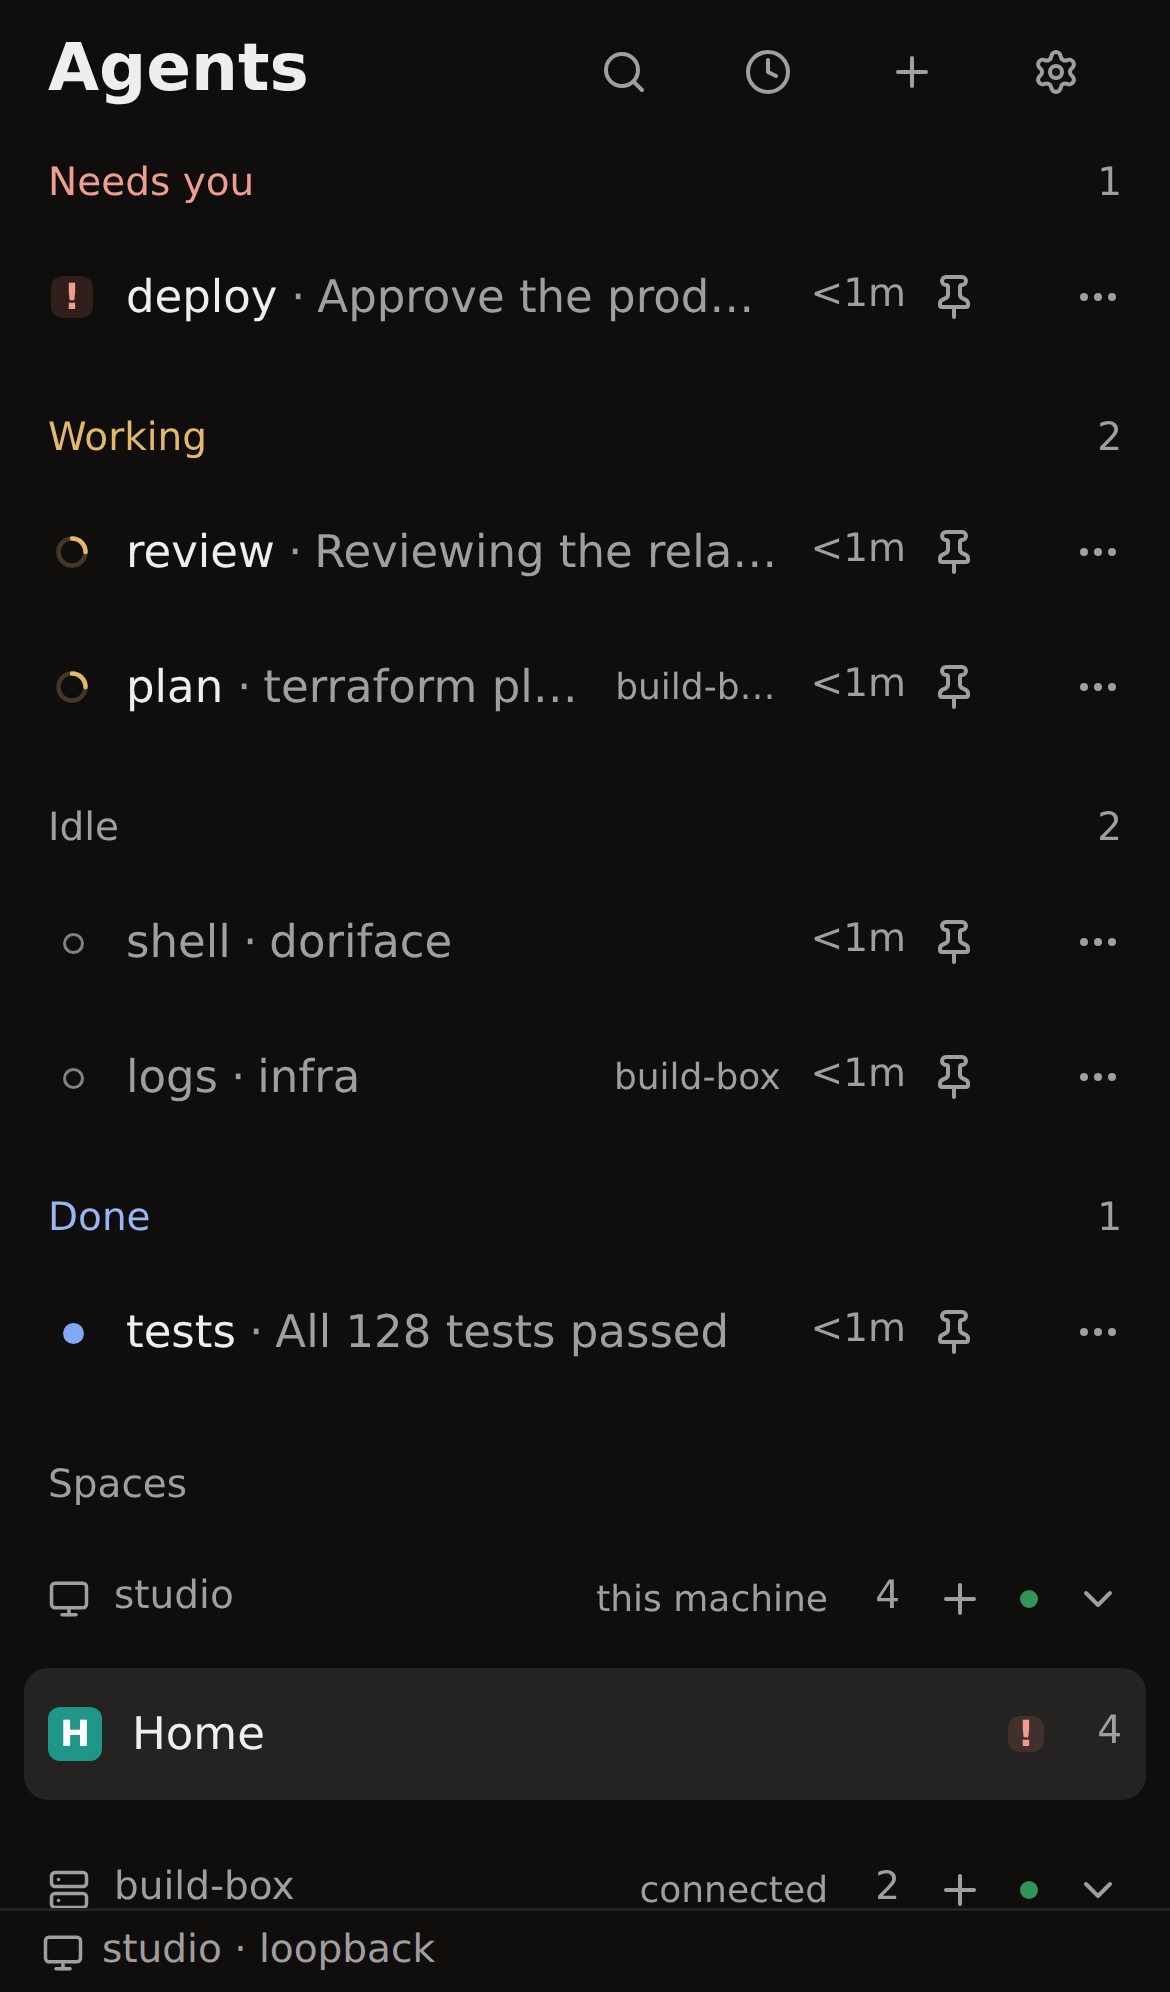
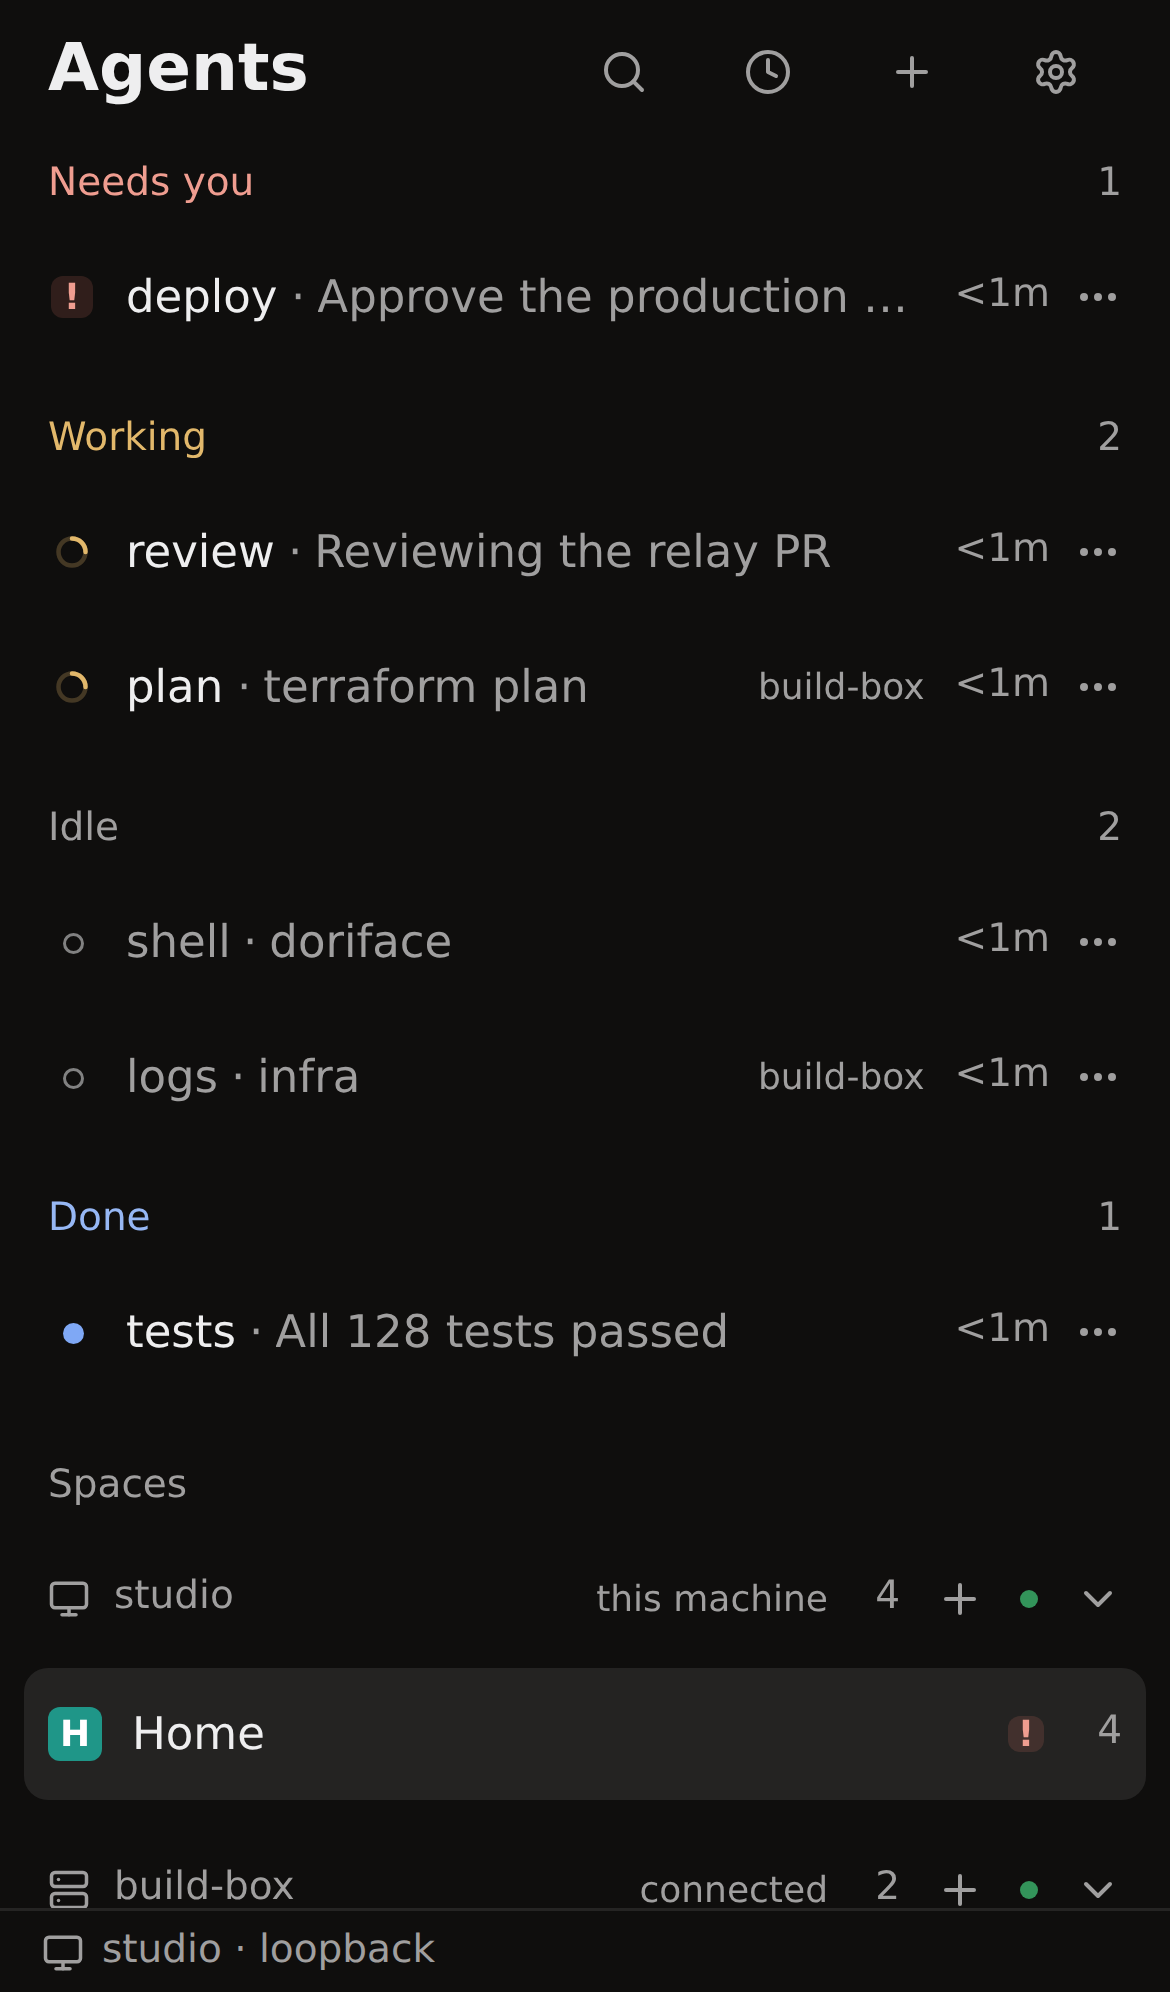
fix(ui): on touch an agent row draws More alone, with Pin as its first item, and keeps its meta (Part of #950)

diff --git a/apps/web/e2e/phone-row-actions.e2e.ts b/apps/web/e2e/phone-row-actions.e2e.ts
@@ -19,70 +19,63 @@ const drawnEdge = (row: Locator) =>
     return rights.length === 0 ? Number.NEGATIVE_INFINITY : Math.max(...rights);
   });
 
-test("an agent row's Pin and More are on the phone, and each takes a tap just inside 10 px of its drawn box", async ({
+test("on the phone an agent row draws More alone, which takes a tap just inside 10 px of its box and holds Pin", async ({
   page,
 }) => {
+  // #950 (after #798/#808): a touch screen draws More only; Pin is its menu's first item, and the row keeps its meta.
   const address = startAgent("host", "tapme", "idle");
   // The two shapes that used to be drawn under the actions: a detail far longer than the row, and a "Blocked" chip,
-  // which is not meta at all, so hiding the meta never moved it out from under the Pin.
+  // which is not meta at all, so hiding the meta never moved it out from under the action.
   const long = startAgent("host", "longrow", "idle", "a-long-space-name-for-the-detail");
   const blocked = startAgent("host", "blockrow", "blocked");
   try {
     await page.goto("/");
     const row = page.getByRole("button", { name: /tapme/ }).first();
-    const pin = page.getByRole("button", { name: "Pin tapme" });
     const more = page.getByRole("button", { name: "More for tapme" });
     await expect(row).toBeVisible({ timeout: 20_000 });
-    await expect(pin).toBeVisible();
+    await expect(more).toBeVisible();
+    await expect(page.getByRole("button", { name: "Pin tapme" })).toBeHidden();
 
-    const boxes = await Promise.all([pin.boundingBox(), more.boundingBox()]);
-    const [left, right] = boxes;
-    if (left === null || right === null) throw new Error("no box");
-    for (const box of boxes) {
-      expect(box?.width, "the drawn button stays 24 px").toBe(24);
-      expect(box?.height, "the drawn button stays 24 px").toBe(24);
-    }
-    expect(right.x - (left.x + left.width), "the two hit areas neither overlap nor meet").toBeGreaterThanOrEqual(24);
+    const box = await more.boundingBox();
+    if (box === null) throw new Error("no box");
+    expect(box.width, "the drawn button stays 24 px").toBe(24);
+    expect(box.height, "the drawn button stays 24 px").toBe(24);
 
     // Just inside the 10 px edge, so sub-pixel rounding of the hit area cannot decide the result.
     const OUT = 9.5;
-    const labels = [await pin.getAttribute("aria-label"), await more.getAttribute("aria-label")];
-    const points = [left, right].flatMap((box, index) => {
-      const midX = box.x + box.width / 2;
-      const midY = box.y + box.height / 2;
-      const label = labels[index] ?? null;
-      return [
-        { side: "left", x: box.x - OUT, y: midY, label },
-        { side: "right", x: box.x + box.width + OUT, y: midY, label },
-        { side: "top", x: midX, y: box.y - OUT, label },
-        { side: "bottom", x: midX, y: box.y + box.height + OUT, label },
-        { side: "top-left", x: box.x - OUT, y: box.y - OUT, label },
-        { side: "top-right", x: box.x + box.width + OUT, y: box.y - OUT, label },
-        { side: "bottom-left", x: box.x - OUT, y: box.y + box.height + OUT, label },
-        { side: "bottom-right", x: box.x + box.width + OUT, y: box.y + box.height + OUT, label },
-      ];
-    });
+    const label = await more.getAttribute("aria-label");
+    const midX = box.x + box.width / 2;
+    const midY = box.y + box.height / 2;
+    const points = [
+      { side: "left", x: box.x - OUT, y: midY },
+      { side: "right", x: box.x + box.width + OUT, y: midY },
+      { side: "top", x: midX, y: box.y - OUT },
+      { side: "bottom", x: midX, y: box.y + box.height + OUT },
+      { side: "top-left", x: box.x - OUT, y: box.y - OUT },
+      { side: "top-right", x: box.x + box.width + OUT, y: box.y - OUT },
+      { side: "bottom-left", x: box.x - OUT, y: box.y + box.height + OUT },
+      { side: "bottom-right", x: box.x + box.width + OUT, y: box.y + box.height + OUT },
+    ];
     const hits = await reached(page, points);
-    points.forEach(({ side, label }, index) =>
+    points.forEach(({ side }, index) =>
       expect.soft(hits[index], `a tap 10 px ${side} of "${label}" reaches it`).toBe(label),
     );
 
-    // The two shapes that used to be drawn under the actions: a detail far longer than the row, and the "Needs you" chip
-    // of a blocked agent, which is not meta at all, so hiding the meta never moved it out from under the Pin. The chip
-    // only draws outside the compact blocked group, so the blocked agent is pinned first: Pinned keeps it.
-    await page.getByRole("button", { name: "Pin blockrow" }).tap();
+    // The blocked agent is pinned first from its own More, so Pinned keeps it and its "Needs you" chip draws.
+    await page.getByRole("button", { name: "More for blockrow" }).tap();
+    await page.getByRole("menuitem", { name: "Pin to top" }).tap();
     await expect(page.getByRole("button", { name: /blockrow/ }).first()).toContainText("Needs you");
     const shapes = ["longrow", "blockrow"] as const;
     await Promise.all(
       shapes.map(async (name) => {
         const other = page.getByRole("button", { name: new RegExp(`\\b${name}\\b`) }).first();
         await expect(other).toBeVisible();
-        const [edge, pinBox] = await Promise.all([
+        const [edge, moreBox] = await Promise.all([
           drawnEdge(other),
-          page.getByRole("button", { name: `Pin ${name}` }).boundingBox(),
+          page.getByRole("button", { name: `More for ${name}` }).boundingBox(),
         ]);
-        if (pinBox === null) throw new Error(`no box for ${name}`);
-        expect(edge, `${name}: nothing the row draws runs under its actions`).toBeLessThanOrEqual(pinBox.x);
+        if (moreBox === null) throw new Error(`no box for ${name}`);
+        expect(edge, `${name}: nothing the row draws runs under its More`).toBeLessThanOrEqual(moreBox.x);
         await expect(other.locator("[data-row-meta]").first()).toHaveCSS("visibility", "visible");
       }),
     );
@@ -91,8 +84,14 @@ test("an agent row's Pin and More are on the phone, and each takes a tap just in
     await expect(page.getByRole("button", { name: /\d+ tabs/ }).first()).toBeVisible();
     await expect(page.getByRole("button", { name: "More for api" })).toHaveCount(0);
 
-    await pin.tap();
-    await expect(page.getByRole("button", { name: "Unpin tapme" })).toBeVisible();
+    // Pin is More's first item, so the action the row no longer draws is one tap further.
+    await more.tap();
+    const items = page.getByRole("menuitem");
+    await expect(items.first()).toHaveText("Pin to top");
+    await items.first().tap();
+    await expect(page.getByRole("button", { name: /tapme/ }).first()).toBeVisible();
+    await page.getByRole("button", { name: "More for tapme" }).tap();
+    await expect(page.getByRole("menuitem").first()).toHaveText("Unpin");
   } finally {
     endAgent("host", address);
     endAgent("host", long);

diff --git a/packages/ui/src/components/row-actions.tsx b/packages/ui/src/components/row-actions.tsx
@@ -26,12 +26,13 @@ const SHOWN =
 const MASKED =
   "[&:is(:hover,:focus-within,:has([data-popup-open]),[data-popup-open])_[data-row-meta]]:invisible data-popup-open:outline-2 data-popup-open:outline-solid data-popup-open:-outline-offset-2 data-popup-open:outline-ring";
 /**
- * Held on a coarse pointer: the actions are drawn, 24 px apart so their centred 44 px hit areas do not meet, and the
- * row's own button gives them the width they take (two 24 px buttons, the 24 px gap and the 4 px inset), so nothing the
- * row draws runs under them. The pad goes on the button, not the wrapper, so its hover wash still spans the row.
+ * Held on a coarse pointer: the actions are drawn (24 px apart, should a row show more than one, so their centred 44 px
+ * hit areas do not meet), and the row's own button gives them the width they take: the agent row shows only its "..."
+ * on touch (#950), so one 24 px button and the 4 px inset. Nothing the row draws runs under it. The pad goes on the
+ * button, not the wrapper, so its hover wash still spans the row.
  */
 const COARSE_SHOWN = `${SHOWN} coarse:visible coarse:gap-6`;
-const COARSE_ROOM = "coarse:[&>button]:pr-20";
+const COARSE_ROOM = "coarse:[&>button]:pr-8";
 
 /** A touch keeps the row's own press (a held space row lifts for a drag): only a mouse, a pen or a key opens the menu. */
 function skipTouchMenu(event: MouseEvent<HTMLDivElement>): void {

diff --git a/apps/web/src/workspace/agents-group.tsx b/apps/web/src/workspace/agents-group.tsx
@@ -86,7 +86,10 @@ function AgentMenuItems({ agent }: { readonly agent: Agent }) {
   );
 }
 
-/** Hover or keyboard focus shows only these two; everything else about the agent is in the "..." menu. */
+/**
+ * Hover or keyboard focus shows only these two; everything else about the agent is in the "..." menu. A touch screen
+ * draws More alone: Pin is its menu's first item, and the row keeps its age and machine (#950, after #798/#808).
+ */
 function AgentActions({ agent }: { readonly agent: Agent }) {
   const pin = usePin();
   const pinned = agent.pinned === true;
@@ -95,7 +98,7 @@ function AgentActions({ agent }: { readonly agent: Agent }) {
       <IconButton
         label={`${pinned ? "Unpin" : "Pin"} ${agent.name}`}
         icon={pinned ? <PinOff /> : <Pin />}
-        className="size-6"
+        className="size-6 coarse:hidden"
         onClick={() => pin(agent.id, !pinned)}
       />
       <Menu

diff --git a/DESIGN.md b/DESIGN.md
@@ -322,6 +322,6 @@ Defects from the two independent visual-qa reviews of the mockups (reviewer A: D
 | L17 | palette              | one agent row showed only its machine, not its state (B-D3, A-T1)                                       | Command `status` renders glyph + word; the machine stays as the secondary hint                                                                             | `docs/design/review/L17-before.png` | `docs/design/review/L17-after.png` | closed |
 | L18 | palette (390)        | ⌘ key hints rendered on the coarse-pointer layout (B-D4)                                                | Kbd hides on coarse pointers unless `persistent`                                                                                                           | `docs/design/review/L18-before.png` | `docs/design/review/L18-after.png` | closed |
 | L19 | settings             | terminal font size cut off at the viewport edge, no scrolled-to-end capture (B-D5, A-E2)                | capture writes `<file>-end.png` for `[data-slot=settings-body]` and grows the viewport to the full form; a settings-appearance route captures that section | `docs/design/review/L19-before.png` | `docs/design/review/L19-after.png` | closed |
-| M1  | mobile-agents (390)  | the Sort control sat alone on its own row under the header (#950)                                       | Sort moves into the Agents header beside Search; the row above the list is gone                                                                            | `docs/design/review/M1-before.png`  | `docs/design/review/M1-after.png`  | closed |
+| M1  | mobile-agents (390)  | Sort sat alone on its own row; each touch row drew meta, Pin and More, cutting summaries (#950)         | Sort moves into the header; on touch a row draws More alone (Pin is its first item, #798/#808 reversed), meta stays                                        | `docs/design/review/M1-before.png`  | `docs/design/review/M1-after.png`  | closed |
 
 Taste notes applied in the same pass: `text-wrap: pretty` on subtitles (A-T4), the three pairing frames share a top anchor (A-T4, B), "Direct on LAN" and "Connection" used consistently (A-T5), the `!` glyph on the Needs you chip and a selected-tone header on the focused pane (A-T6, B; the header itself was removed in #108), the settings form centred in its pane (A-T7, B), no persistent selected wash on the phone list (A-T8), the T9 accent/done decision in section 2. Not taken: a bottom fade on the palette list (A-T2), captions on the stacked 390 frames and a darker scrim in dark (B).

diff --git a/CHANGELOG.md b/CHANGELOG.md
@@ -5,6 +5,7 @@
 ### Phone
 
 - On a phone, Sort sits in the Agents header beside Search instead of on a row of its own above the list. (#950)
+- On a phone, an agent row shows its "..." alone, with Pin to top as its first item, so the summary, machine and age have room. (#950)
 
 ### Machine mesh
 
